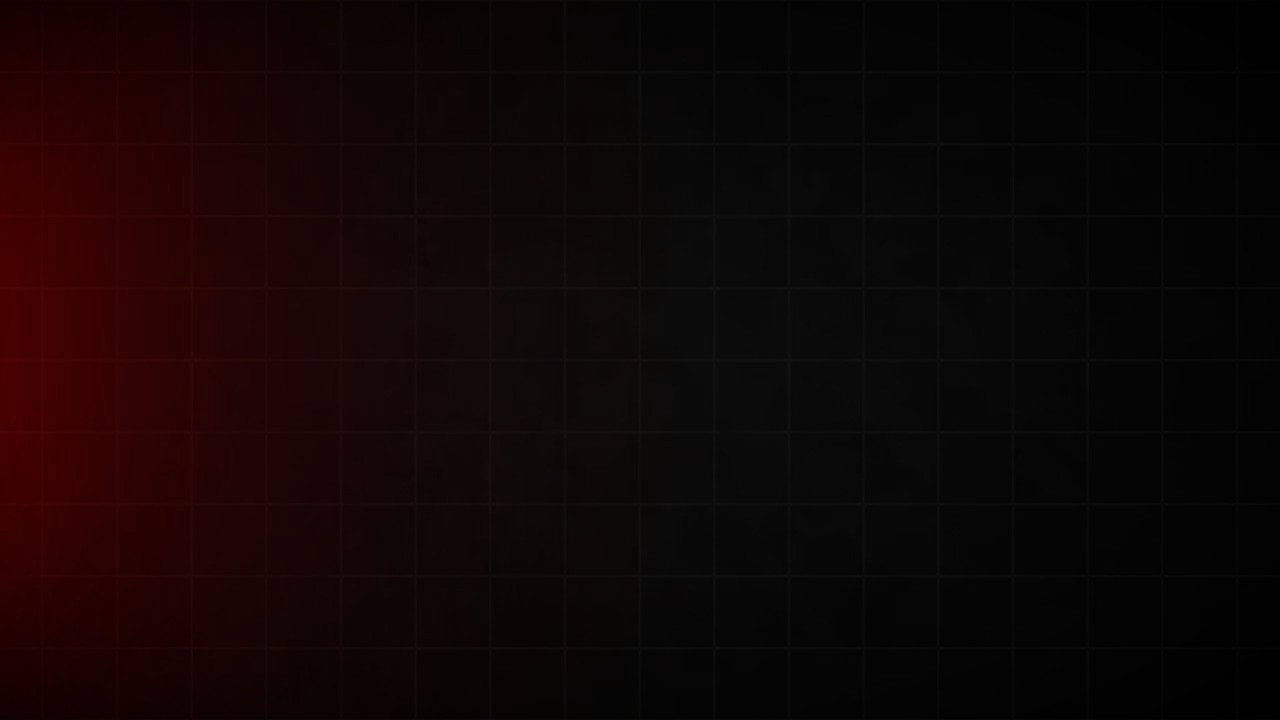
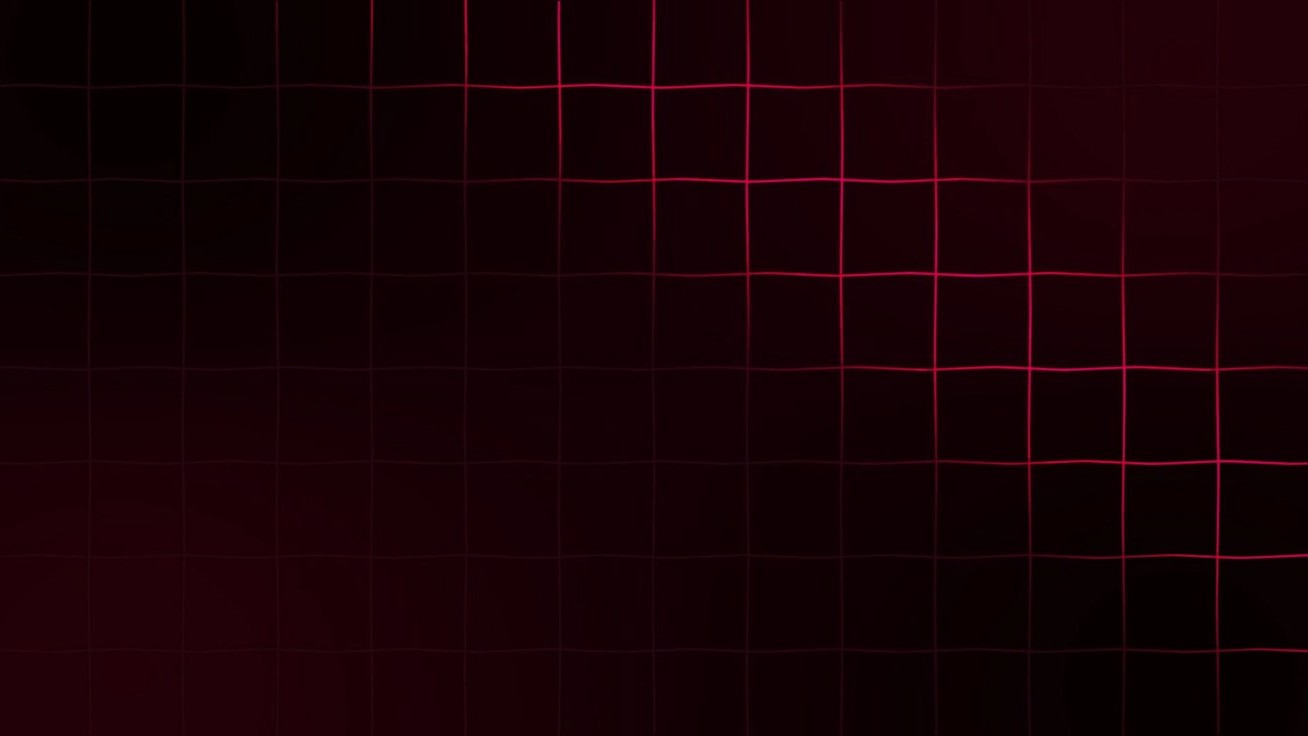
Styled login & register pages

Changed region(s): [[0.2812, 0.0, 1.0, 0.825], [0.0, 0.0611, 0.1875, 0.7639], [0.875, 0.8556, 1.0, 0.9167]]

diff --git a/Frontend/src/pages/Register.tsx b/Frontend/src/pages/Register.tsx
@@ -1,8 +1,8 @@
-// Register page
 import { useState } from 'react';
-import api from '../lib/axios.js';       // Axios instance (configured with baseURL & token)
-import useAuthStore from '../store/auth';  // Zustand store
-import { useNavigate } from 'react-router-dom'; // for redirect
+import api from '../lib/axios.js';
+import useAuthStore from '../store/auth';
+import { useNavigate } from 'react-router-dom';
+import backgroundImage from '../assets/backgroundd.png'; // Ensure this path is correct
 
 const Register = () => {
   const { setUser } = useAuthStore();
@@ -10,7 +10,6 @@ const Register = () => {
   const [email, setEmail] = useState('');
   const [password, setPassword] = useState('');
   const [error, setError] = useState('');
-
   const navigate = useNavigate();
 
   const handleSignup = async (e: React.FormEvent) => {
@@ -18,13 +17,7 @@ const Register = () => {
     try {
       setError('');
       const res = await api.post('/auth/signup', { name, email, password });
-
-      console.log('Registered:', res.data);
-
-      // Save to Zustand
       setUser(res.data.user, res.data.token);
-
-      // Redirect to dashboard
       navigate('/dashboard');
     } catch (err: any) {
       console.error('Registration failed:', err);
@@ -33,49 +26,54 @@ const Register = () => {
   };
 
   return (
-    <div className="min-h-screen flex items-center justify-center bg-gray-100 px-4">
+    <div
+      className="min-h-screen flex items-center justify-center bg-cover bg-center relative"
+      style={{ backgroundImage: `url(${backgroundImage})` }}
+    >
+      {/* Overlay */}
+      <div className="absolute inset-0 bg-black/60" />
+
+      {/* Register Card */}
       <form
         onSubmit={handleSignup}
-        className="bg-white p-8 rounded-lg shadow-md w-full max-w-md"
+        className="relative z-10 bg-white/10 backdrop-blur-md text-white p-8 rounded-2xl shadow-lg w-full max-w-md"
       >
-        <h2 className="text-3xl font-semibold mb-6 text-center text-gray-800">
-          Create Account
-        </h2>
+        <h2 className="text-3xl font-bold mb-6 text-center">Create Account</h2>
 
         <input
           type="text"
           placeholder="Name"
-          className="w-full p-3 mb-4 border border-gray-300 rounded focus:outline-none focus:ring-2 focus:ring-blue-400"
           value={name}
           onChange={(e) => setName(e.target.value)}
           required
+          className="w-full px-4 py-3 mb-4 bg-black/40 border border-white/20 rounded-lg placeholder:text-gray-300 focus:outline-none focus:ring-2 focus:ring-yellow-400"
         />
 
         <input
           type="email"
           placeholder="Email"
-          className="w-full p-3 mb-4 border border-gray-300 rounded focus:outline-none focus:ring-2 focus:ring-blue-400"
           value={email}
           onChange={(e) => setEmail(e.target.value)}
           required
+          className="w-full px-4 py-3 mb-4 bg-black/40 border border-white/20 rounded-lg placeholder:text-gray-300 focus:outline-none focus:ring-2 focus:ring-yellow-400"
         />
 
         <input
           type="password"
           placeholder="Password"
-          className="w-full p-3 mb-4 border border-gray-300 rounded focus:outline-none focus:ring-2 focus:ring-blue-400"
           value={password}
           onChange={(e) => setPassword(e.target.value)}
           required
+          className="w-full px-4 py-3 mb-4 bg-black/40 border border-white/20 rounded-lg placeholder:text-gray-300 focus:outline-none focus:ring-2 focus:ring-yellow-400"
         />
 
         {error && (
-          <p className="text-red-600 text-sm mb-4 text-center">{error}</p>
+          <p className="text-red-400 text-sm mb-4 text-center">{error}</p>
         )}
 
         <button
           type="submit"
-          className="w-full bg-blue-600 text-white py-3 rounded hover:bg-blue-700 transition duration-200"
+          className="w-full bg-gradient-to-r from-orange-500 to-yellow-400 text-black font-semibold py-3 rounded-lg transition hover:from-orange-400 hover:to-yellow-300"
         >
           Sign Up
         </button>

diff --git a/Frontend/src/pages/Login.tsx b/Frontend/src/pages/Login.tsx
@@ -1,11 +1,11 @@
-// Login page component
 import { useState } from 'react';
 import { useNavigate } from 'react-router-dom';
-import api from '../lib/axios.js'; // Axios instance
-import useAuthStore from '../store/auth'; 
+import api from '../lib/axios.js';
+import useAuthStore from '../store/auth';
+import backgroundImage from '../assets/backgroundd.png'; // adjust if using Vite or CRA
 
 const Login = () => {
-  const { setUser } = useAuthStore(); // Zustand store
+  const { setUser } = useAuthStore();
   const [email, setEmail] = useState('');
   const [password, setPassword] = useState('');
   const [error, setError] = useState('');
@@ -16,13 +16,7 @@ const Login = () => {
     try {
       setError('');
       const res = await api.post('/auth/login', { email, password });
-
-      console.log('Logged in:', res.data);
-
-      // Save user and token to Zustand + localStorage
       setUser(res.data.user, res.data.token);
-
-      // Redirect to dashboard
       navigate('/dashboard');
     } catch (err: any) {
       console.error('Login failed:', err);
@@ -31,40 +25,45 @@ const Login = () => {
   };
 
   return (
-    <div className="min-h-screen flex items-center justify-center bg-gray-100 px-4">
+    <div
+      className="min-h-screen flex items-center justify-center bg-cover bg-center relative"
+      style={{ backgroundImage: `url(${backgroundImage})` }}
+    >
+      {/* Overlay */}
+      <div className="absolute inset-0 bg-black/60" />
+
+      {/* Login Card */}
       <form
         onSubmit={handleLogin}
-        className="bg-white p-8 rounded-lg shadow-md w-full max-w-md"
+        className="relative z-10 bg-white/10 backdrop-blur-md text-white p-8 rounded-2xl shadow-lg w-full max-w-md"
       >
-        <h2 className="text-3xl font-semibold mb-6 text-center text-gray-800">
-          Login
-        </h2>
+        <h2 className="text-3xl font-bold mb-6 text-center">Login</h2>
 
         <input
           type="email"
           placeholder="Email"
-          className="w-full p-3 mb-4 border border-gray-300 rounded focus:outline-none focus:ring-2 focus:ring-blue-400"
           value={email}
           onChange={(e) => setEmail(e.target.value)}
           required
+          className="w-full px-4 py-3 mb-4 bg-black/40 border border-white/20 rounded-lg placeholder:text-gray-300 focus:outline-none focus:ring-2 focus:ring-yellow-400"
         />
 
         <input
           type="password"
           placeholder="Password"
-          className="w-full p-3 mb-4 border border-gray-300 rounded focus:outline-none focus:ring-2 focus:ring-blue-400"
           value={password}
           onChange={(e) => setPassword(e.target.value)}
           required
+          className="w-full px-4 py-3 mb-4 bg-black/40 border border-white/20 rounded-lg placeholder:text-gray-300 focus:outline-none focus:ring-2 focus:ring-yellow-400"
         />
 
         {error && (
-          <p className="text-red-600 text-sm mb-4 text-center">{error}</p>
+          <p className="text-red-400 text-sm mb-4 text-center">{error}</p>
         )}
 
         <button
           type="submit"
-          className="w-full bg-blue-600 text-white py-3 rounded hover:bg-blue-700 transition duration-200"
+          className="w-full bg-gradient-to-r from-orange-500 to-yellow-400 text-black font-semibold py-3 rounded-lg transition hover:from-orange-400 hover:to-yellow-300"
         >
           Login
         </button>

diff --git a/Frontend/src/pages/Home.tsx b/Frontend/src/pages/Home.tsx
@@ -37,7 +37,7 @@ const Hero = () => {
         <p className="text-base sm:text-lg tracking-wider text-gray-300 max-w-[25rem] lg:max-w-[30rem]">
           Your AI-powered 3D career assistant for smarter decisions.
           <br />
-          🚀 Tech Stack: React JS • Tailwind CSS • Spline • Lucide
+         
         </p>
 
         {/* Get Started Button - Centered */}
